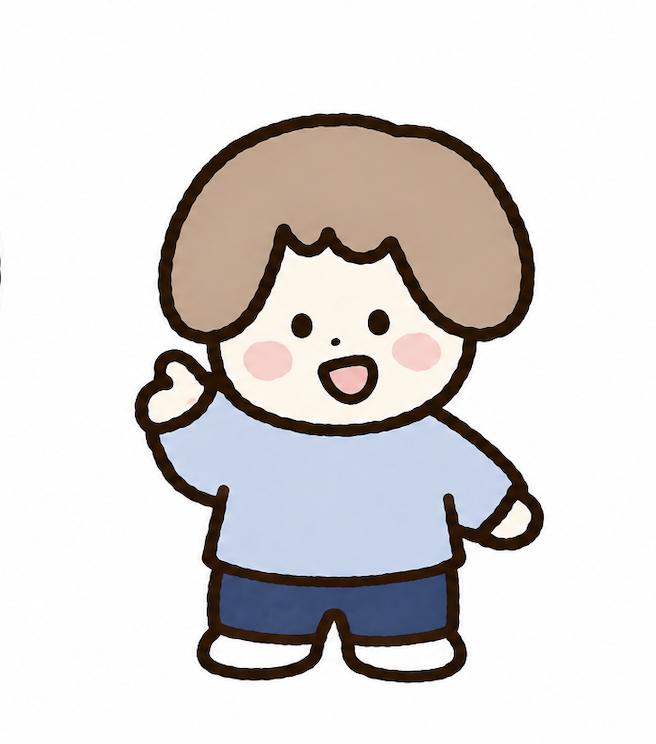
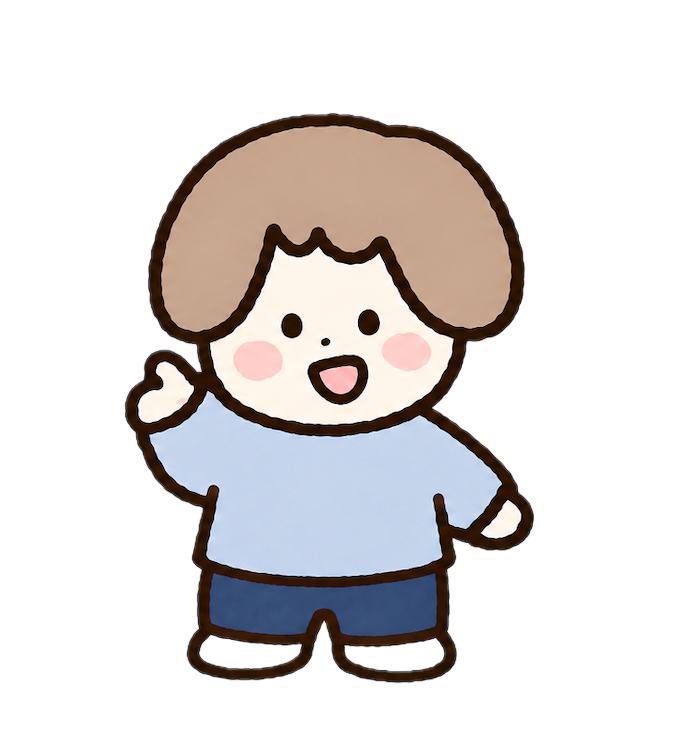
428

Changed region(s): [[0.1829, 0.1546, 0.8537, 0.9274]]

diff --git a/IML300-project3-OdysseyYears/page5_sketch.js b/IML300-project3-OdysseyYears/page5_sketch.js
@@ -1,0 +1,330 @@
+let bgImg, houseImg, peoImg;
+let bqImgs = [];
+
+// ===== Person Configuration =====
+let personConfig = { offsetX: -25, offsetY: 60, width: 140 };
+let personScale = 1.0;
+let personArea = { x: 0, y: 0, w: 0, h: 0 };
+
+// ===== Dialog & UI =====
+let bubbleAlpha = 0;
+let currentMessage = ""; // 初始为空
+let messageTimer = -5001;
+let randomMessages = [
+
+  "You can tell me anything.",
+
+];
+
+let inputArea;
+let btnHovered = false;
+
+// ===== Note Data Storage =====
+let notes = [];
+let hoveredNote = null;
+let activeNote = null;
+let noteBaseSize = 220;
+
+function preload() {
+  bgImg = loadImage("imgs/page5.png");
+  houseImg = loadImage("imgs/house.png");
+  peoImg = loadImage("imgs/peo5.png");
+
+  for (let i = 1; i <= 4; i++) {
+    bqImgs.push(loadImage(`imgs/bq${i}.png`));
+  }
+}
+
+function setup() {
+  createCanvas(windowWidth, windowHeight);
+
+  let fontLink = document.createElement('link');
+  fontLink.href = 'https://fonts.googleapis.com/css2?family=Share+Tech&display=swap';
+  fontLink.rel = 'stylesheet';
+  document.head.appendChild(fontLink);
+  textFont("'Share Tech', sans-serif");
+
+  inputArea = createElement('textarea');
+  inputArea.attribute('placeholder', "Write down everything here...");
+  inputArea.style('font-family', "'Share Tech', sans-serif");
+  inputArea.style('font-size', '16px');
+  inputArea.style('padding', '15px');
+  inputArea.style('border-radius', '12px');
+  inputArea.style('border', '2px solid #ccc');
+  inputArea.style('outline', 'none');
+  inputArea.style('background', 'rgba(255, 255, 255, 0.85)');
+  inputArea.style('resize', 'none');
+  inputArea.style('line-height', '1.5');
+  inputArea.style('box-sizing', 'border-box');
+
+  loadLocalNotes();
+}
+
+function safeAspect(img) {
+  if (!img || typeof img.width === 'undefined' || img.width === 0) return 1;
+  return img.height / img.width;
+}
+
+function draw() {
+  background(0);
+
+  if (bgImg && bgImg.width > 0) {
+    image(bgImg, 0, 0, width, height);
+  }
+
+  drawNotes();
+
+  let w = min(width * 0.4, 500);
+  let h = w * safeAspect(houseImg);
+  let floatY = sin(frameCount * 0.02) * 6;
+  let houseX = width / 2 - w / 2;
+  let houseY = height / 2 - h / 2 + floatY;
+
+  drawingContext.shadowColor = 'rgba(0,0,0,0.3)';
+  drawingContext.shadowBlur = 30;
+  if (houseImg && houseImg.width > 0) {
+    image(houseImg, houseX, houseY, w, h);
+  }
+  drawingContext.shadowBlur = 0;
+
+  // Person Interaction
+  let isPersonHovered =
+    mouseX > personArea.x &&
+    mouseX < personArea.x + personArea.w &&
+    mouseY > personArea.y &&
+    mouseY < personArea.y + personArea.h;
+
+  personScale = lerp(personScale, isPersonHovered ? 1.08 : 1.0, 0.2);
+
+  let pw = personConfig.width * personScale;
+  let ph = (personConfig.width * safeAspect(peoImg)) * personScale;
+  let centerX = houseX + w / 2;
+  let centerY = houseY + h / 2;
+  let px = centerX + personConfig.offsetX - pw / 2;
+  let py = centerY + personConfig.offsetY - ph / 2;
+
+  if (peoImg && peoImg.width > 0) {
+    image(peoImg, px, py, pw, ph);
+  }
+  personArea = { x: px, y: py, w: pw, h: ph };
+
+  // Bubble Logic
+  if (millis() > messageTimer + 5000) {
+    bubbleAlpha = lerp(bubbleAlpha, 0, 0.1);
+  } else {
+    bubbleAlpha = lerp(bubbleAlpha, 255, 0.1);
+  }
+
+  if (currentMessage !== "" && bubbleAlpha > 1) {
+    drawBubble(px, py, pw);
+  }
+
+  // Input & Button
+  let inputW = 340;
+  let inputH = 100;
+  if (!isNaN(houseY) && !isNaN(h)) {
+    inputArea.position(width / 2 - inputW / 2, houseY + h + 20);
+    inputArea.size(inputW, inputH);
+  }
+  drawSubmitButton(width / 2, houseY + h + 20 + inputH + 25);
+
+  // Detail View
+  if (activeNote) {
+    drawNoteDetail();
+  }
+}
+
+function drawNotes() {
+  hoveredNote = null;
+  for (let i = notes.length - 1; i >= 0; i--) {
+    let note = notes[i];
+    let nx = note.relX * width;
+    let ny = note.relY * height;
+    let bqImg = bqImgs[note.bqIndex] || bqImgs[0];
+    if (!bqImg || bqImg.width === 0) continue;
+
+    let nw = noteBaseSize;
+    let nh = nw * safeAspect(bqImg);
+
+    let isHovered = false;
+    if (dist(mouseX, mouseY, nx, ny) < nw / 2) {
+      isHovered = true;
+      hoveredNote = note;
+    }
+
+    let currentScale = (isHovered || activeNote === note) ? 1.05 : 1.0;
+
+    push();
+    translate(nx, ny);
+    rotate(note.rotation || 0);
+    imageMode(CENTER);
+    if (isHovered || activeNote === note) {
+      drawingContext.shadowColor = 'rgba(255, 255, 255, 0.8)';
+      drawingContext.shadowBlur = 15;
+    }
+    image(bqImg, 0, 0, nw * currentScale, nh * currentScale);
+    pop();
+  }
+}
+
+function drawBubble(px, py, pw) {
+  textSize(16);
+  let padding = 20;
+  let rawTw = textWidth(currentMessage);
+  let tw = min(max(rawTw, 200), 320);
+  let isMultiLine = rawTw > 320 || currentMessage.includes('\n');
+  let th = isMultiLine ? 80 : 50;
+  let bx = px + pw / 2 - tw / 2 - padding;
+  let by = py - th - 30;
+  noStroke();
+  fill(0, 25 * (bubbleAlpha / 255));
+  rect(bx + 6, by + 6, tw + padding * 2, th, 22);
+  fill(255, bubbleAlpha);
+  stroke(120, bubbleAlpha);
+  rect(bx, by, tw + padding * 2, th, 22);
+  fill(60, bubbleAlpha);
+  noStroke();
+  textAlign(CENTER, CENTER);
+  text(currentMessage, bx + padding, by + padding / 2, tw, th - padding);
+}
+
+function drawSubmitButton(cx, cy) {
+  if (isNaN(cx) || isNaN(cy)) return;
+  let bw = 140;
+  let bh = 40;
+  let bx = cx - bw / 2;
+  let by = cy - bh / 2;
+  btnHovered = mouseX > bx && mouseX < bx + bw && mouseY > by && mouseY < by + bh;
+  fill(btnHovered ? 230 : 255);
+  stroke(120);
+  rect(bx, by, bw, bh, 20);
+  fill(60);
+  noStroke();
+  textSize(16);
+  textAlign(CENTER, CENTER);
+  text("Leave Note", cx, cy);
+}
+
+function drawNoteDetail() {
+  let pad = 20;
+  let boxW = 280;
+  textSize(16);
+  textLeading(22);
+  let textLength = textWidth(activeNote.text);
+  let estimatedLines = Math.ceil(textLength / (boxW - pad * 2)) + 1;
+  let boxH = min(estimatedLines * 22 + pad * 2 + 50, 400);
+
+  let tx = (activeNote.relX * width) + 60;
+  let ty = (activeNote.relY * height) - 60;
+
+  if (tx + boxW > width) tx = width - boxW - 20;
+  if (ty + boxH > height) ty = height - boxH - 20;
+  if (tx < 0) tx = 20;
+  if (ty < 0) ty = 20;
+
+  drawingContext.shadowColor = 'rgba(0,0,0,0.3)';
+  drawingContext.shadowBlur = 20;
+  fill(255, 245, 230, 250);
+  stroke(200, 180, 160);
+  rect(tx, ty, boxW, boxH, 15);
+  drawingContext.shadowBlur = 0;
+
+  fill(80, 60, 50);
+  noStroke();
+  textAlign(LEFT, TOP);
+  text(activeNote.text, tx + pad, ty + pad, boxW - pad * 2, boxH - pad * 2 - 40);
+
+  // Delete Button
+  let delX = tx + boxW - 80;
+  let delY = ty + boxH - 35;
+  let isDelHover = mouseX > delX && mouseX < delX + 60 && mouseY > delY && mouseY < delY + 25;
+
+  fill(isDelHover ? '#ff4444' : '#aa3333');
+  textSize(14);
+  textAlign(RIGHT, CENTER);
+  text("[Delete]", tx + boxW - pad, ty + boxH - pad - 10);
+
+  activeNote.delBtn = { x: delX, y: delY, w: 60, h: 25 };
+}
+
+function mousePressed() {
+  // 1. Submit Note
+  if (btnHovered) {
+    let textVal = inputArea.value().trim();
+    if (textVal !== '') {
+      saveNewNote(textVal);
+      inputArea.value('');
+      currentMessage = "I will keep it safe for you.";
+      messageTimer = millis();
+      bubbleAlpha = 0;
+    }
+    return;
+  }
+
+  // 2. Delete Note
+  if (activeNote && activeNote.delBtn) {
+    let d = activeNote.delBtn;
+    if (mouseX > d.x && mouseX < d.x + d.w && mouseY > d.y && mouseY < d.y + d.h) {
+      notes = notes.filter(n => n !== activeNote);
+      localStorage.setItem('myTreeHoleNotes', JSON.stringify(notes));
+      activeNote = null;
+      return;
+    }
+  }
+
+  // 3. Click Note to View
+  if (hoveredNote) {
+    activeNote = (activeNote === hoveredNote) ? null : hoveredNote;
+    return;
+  }
+
+  // 4. Click Person (Start Talking)
+  if (
+    mouseX > personArea.x && mouseX < personArea.x + personArea.w &&
+    mouseY > personArea.y && mouseY < personArea.y + personArea.h
+  ) {
+    // 确保随机选取的句子不和当前句子重复（除非只有一条）
+    let nextMsg = random(randomMessages);
+    while (nextMsg === currentMessage && randomMessages.length > 1) {
+      nextMsg = random(randomMessages);
+    }
+    currentMessage = nextMsg;
+    messageTimer = millis();
+    bubbleAlpha = 0;
+    return;
+  }
+
+  // Close detail on clicking empty space
+  activeNote = null;
+}
+
+function loadLocalNotes() {
+  let savedData = localStorage.getItem('myTreeHoleNotes');
+  if (savedData) {
+    try {
+      notes = JSON.parse(savedData);
+    } catch(e) {
+      notes = [];
+    }
+  }
+}
+
+function saveNewNote(text) {
+  let rx = random(0.1, 0.9);
+  let ry = random(0.1, 0.8);
+  let bqIdx = floor(random(0, 4));
+  let rot = random(-PI/10, PI/10);
+
+  notes.push({
+    text: text,
+    relX: rx,
+    relY: ry,
+    bqIndex: bqIdx,
+    rotation: rot
+  });
+  localStorage.setItem('myTreeHoleNotes', JSON.stringify(notes));
+}
+
+function windowResized() {
+  resizeCanvas(windowWidth, windowHeight);
+}

diff --git a/IML300-project3-OdysseyYears/index.html b/IML300-project3-OdysseyYears/index.html
@@ -3,7 +3,7 @@
 <head>
   <meta charset="UTF-8">
   <meta name="viewport" content="width=device-width, initial-scale=1.0">
-  <title>奥德赛时期 | 人生的梅雨季</title>
+  <title>Homepage</title>
 
   <script src="https://cdnjs.cloudflare.com/ajax/libs/p5.js/1.9.0/p5.js"></script>
   <link href="https://fonts.googleapis.com/css2?family=Share+Tech&display=swap" rel="stylesheet">
@@ -17,9 +17,11 @@
     <h1 style="font-size: 42px; font-weight: normal; letter-spacing: 5px; margin-bottom: 30px;">THE ODYSSEY YEARS</h1>
 
     <p style="font-size: 20px; line-height: 1.8; color: #ddd; margin-bottom: 20px;">
-      This project explores the "Odyssey Years"—the transitional decade of the 20s.
-      It is a visual journey through the metaphorical mist and rain of uncertainty,
-      reminding us that being lost is part of finding one's way.
+      This is a warm interactive web platform dedicated to young people in the Odyssey Years, the confusing transitional stage of life filled with anxiety, loneliness and self-exploration. Taking "life's rainy season" as the core visual theme, the homepage adopts a gentle rainy animation and briefly interprets the concept of the Odyssey Years, with five interactive umbrellas as the entry to five caring modules.
+
+The platform integrates delicate animations and human-computer interaction to provide spiritual comfort: the white noise module offers soothing sounds for meditation and relaxation; the tree-planting module allows users to nurture a small tree, witnessing inner growth with encouraging words; the gift box module brings random interesting trivial things to fight emptiness; the Q&A module guides users to explore themselves through ten heart-to-heart questions; the Firebase-based message board realizes anonymous sharing of worries and mutual comfort.
+
+It aims to accompany young people through the confused rainy period of life, convey gentle care, and build a warm networked care space for self-growth and emotional companionship.
     </p>
 
     <p style="font-size: 16px; color: #888; letter-spacing: 1px; margin-top: 50px;">

diff --git a/IML300-project3-OdysseyYears/page1_sketch.js b/IML300-project3-OdysseyYears/page1_sketch.js
@@ -30,11 +30,7 @@ let iconConfig = [
 
 // ===== 对话 =====
 let messages = [
-  "今天也要好好休息～",
-  "外面的世界很吵",
-  "我想再躺一会儿",
-  "你在看我吗？",
-  "这里很安全"
+  "Hi～",
 ];
 
 let currentMessage = "";
